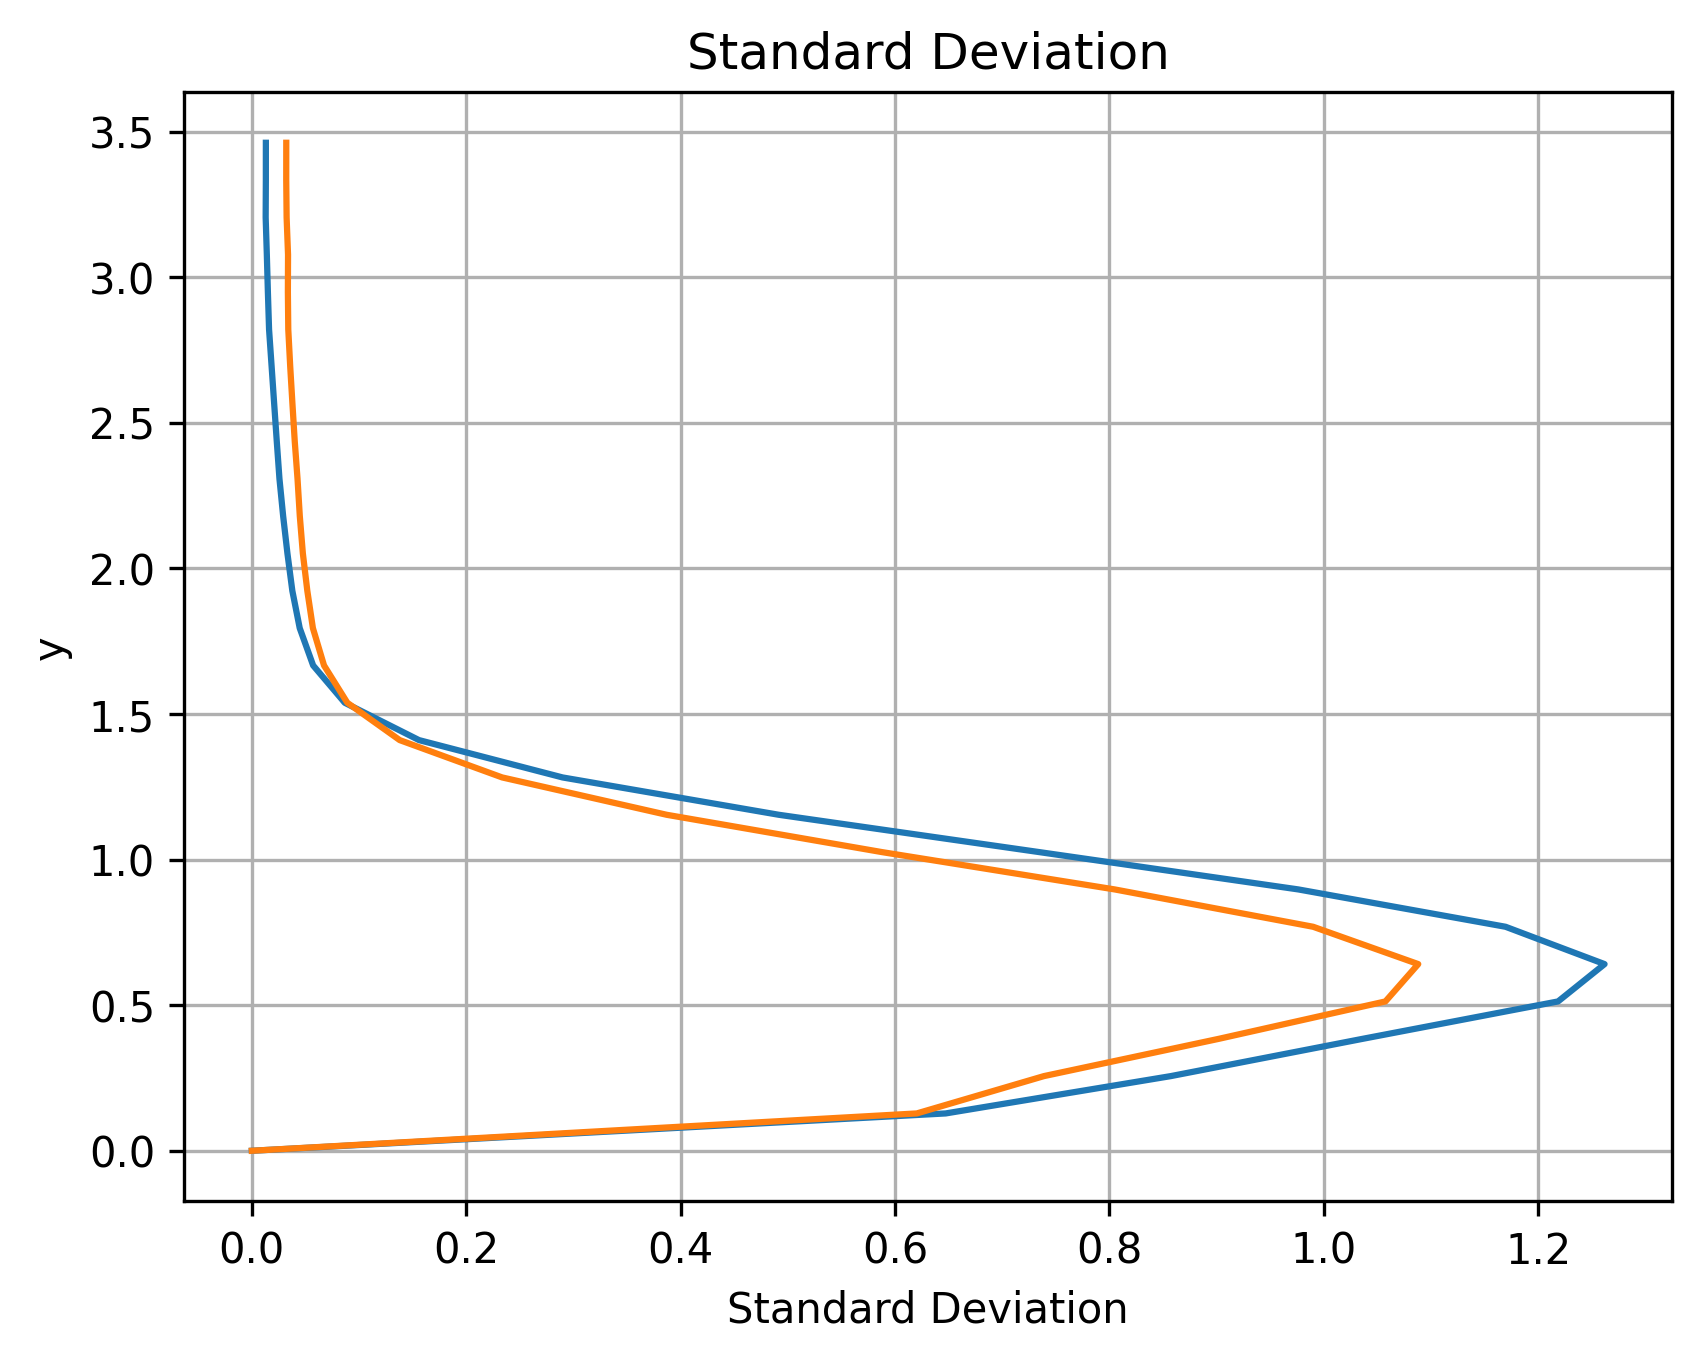
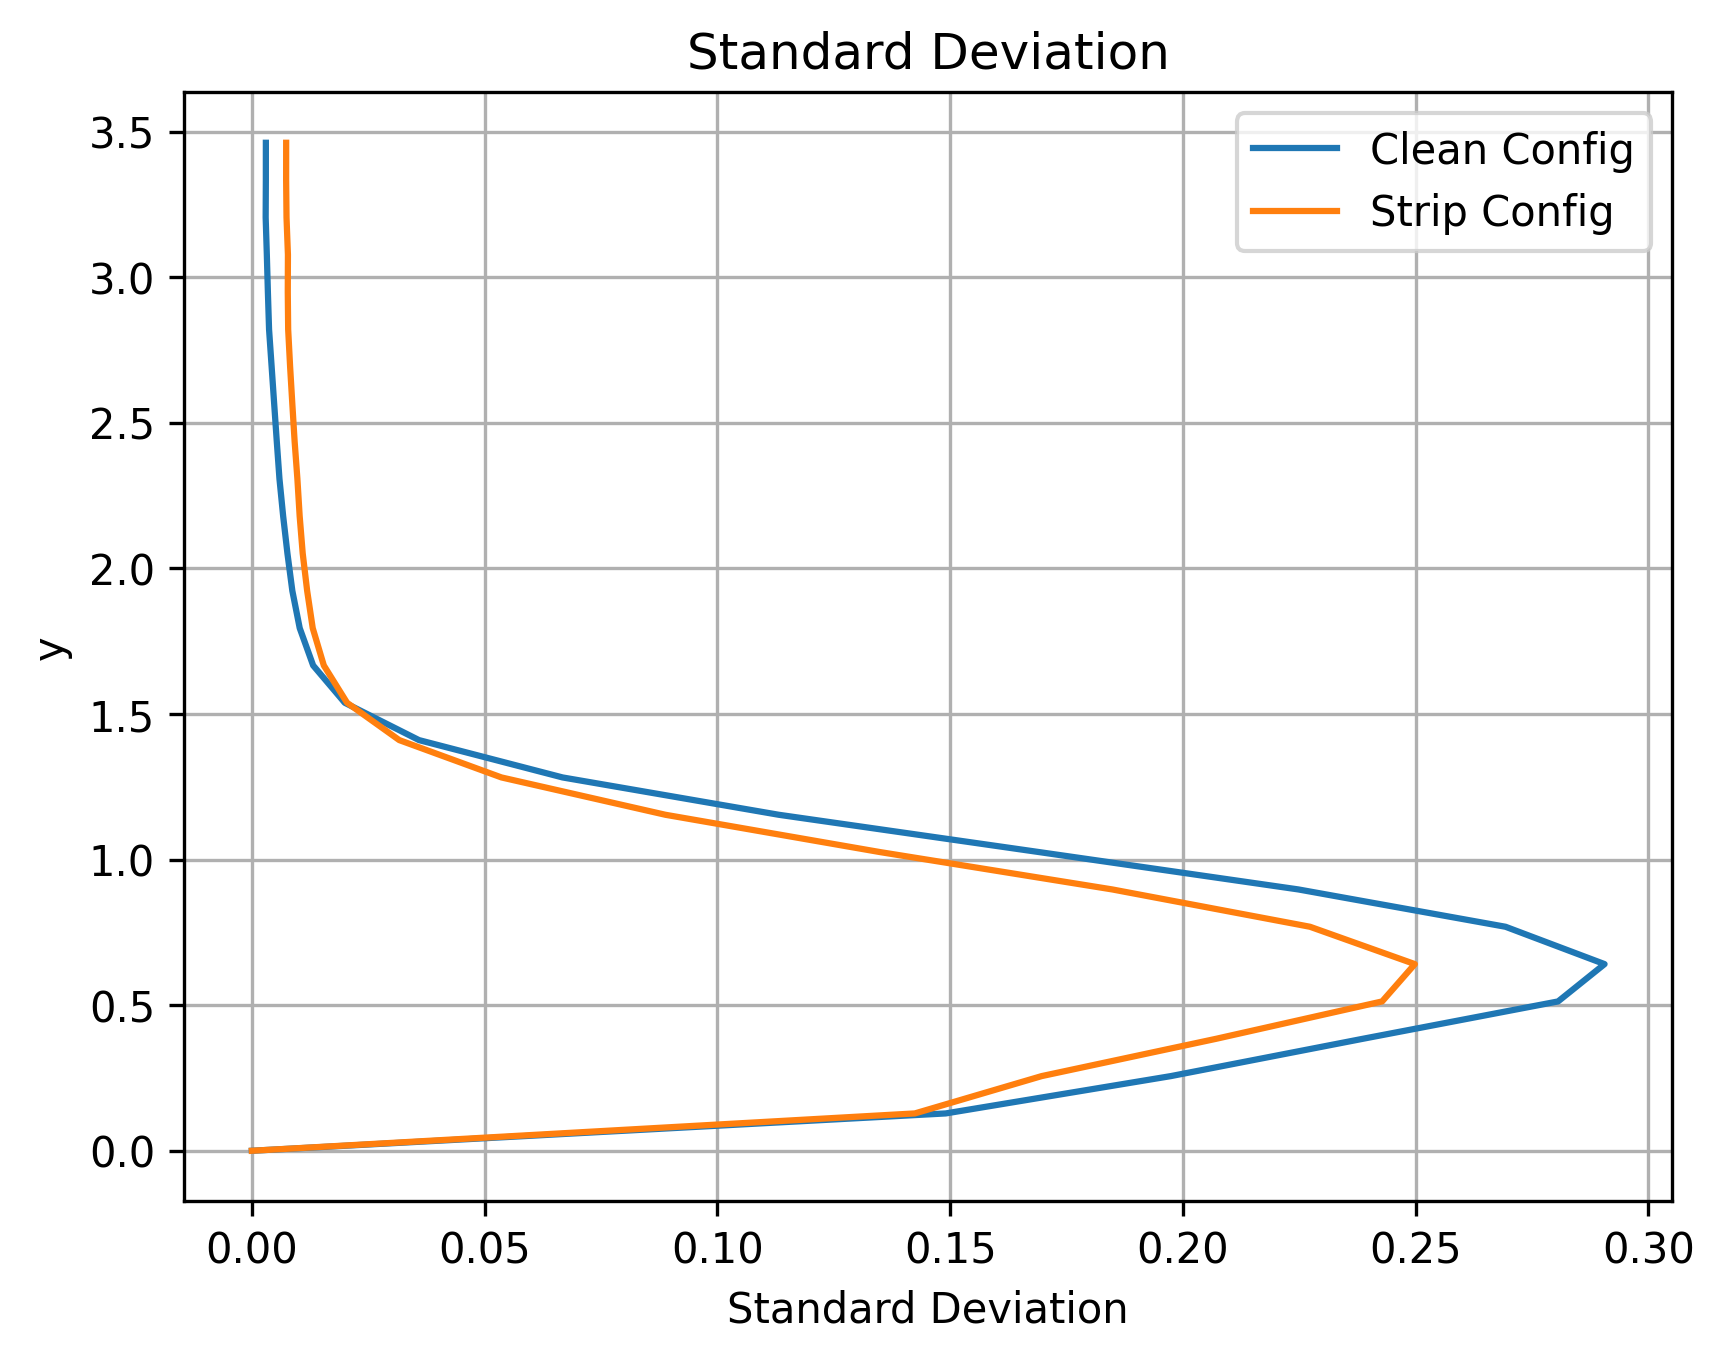
commit again

diff --git a/yzcontourplots.py b/yzcontourplots.py
@@ -122,7 +122,7 @@ vmin = -vmax
 
 
 #ax.quiver(Y[::stepy,::stepx,:],X[::stepy,::stepx,:], Z[::stepy,::stepx,:], V_3D[::stepy,::stepx,:],U_3D[::stepy,::stepx,:], W_3D[::stepy,::stepx,:],length=0.1)
-for x in range(0,len(x_values),30):
+for x in range(0,len(x_values),15):
     plt.pcolormesh(Z,Y,Uc_3D[:,x,:],cmap='Spectral') #vmin=vmin,vmax=vmax) # vmin=float(np.min(DiffV_3D)),vmax=float(np.max(DiffV_3D))
     plt.xlabel("Z")
     plt.ylabel("Y")
@@ -141,8 +141,8 @@ for x in range(0,len(x_values),30):
 
     print(f"Saved: {out_path}")
 
-    #Uc_3D[:,x,:] = (Uc_3D[:,x,:] - np.mean(Uc_3D[:,x,:]))/np.std(Uc_3D[:,x,:])
-    #U_3D[:,x,:] = (U_3D[:,x,:] - np.mean(U_3D[:,x,:]))/np.std(U_3D[:,x,:])
+    Uc_3D[:,x,:] = (Uc_3D[:,x,:] - np.mean(Uc_3D[:,x,:]))/np.std(Uc_3D[:,x,:])
+    U_3D[:,x,:] = (U_3D[:,x,:] - np.mean(U_3D[:,x,:]))/np.std(U_3D[:,x,:])
 
     stdlistCC = np.array([])
     stdlistSC = np.array([])
